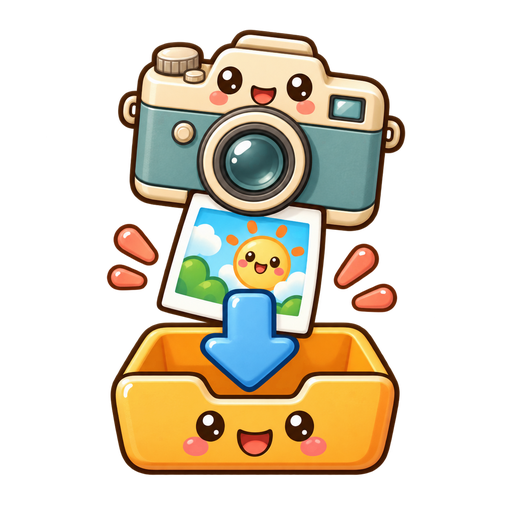
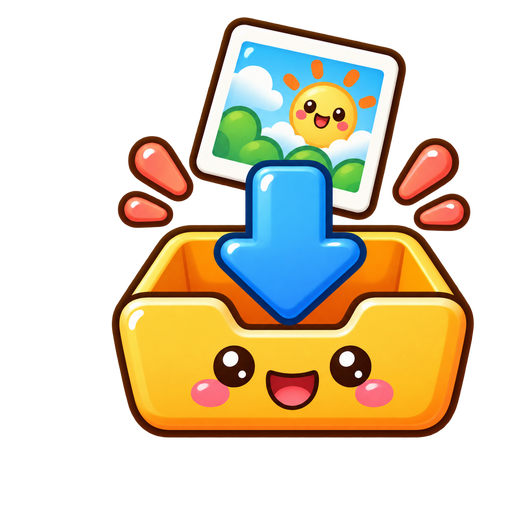
つくる画面を方法と作品別に整理
おえかき・カメラ・とりこみを方法別入口として分離し、キャラクター・背景とクイズを見出しごとに整理する。混在していた取り込みアイコンを写真取り込みとカメラの専用画像へ置き換えた。

diff --git a/create.html b/create.html
@@ -11,6 +11,29 @@
 <meta name="apple-mobile-web-app-capable" content="yes">
 <meta name="apple-mobile-web-app-title" content="ゲームパック">
   <link rel="stylesheet" href="css/style.css?v=64">
+  <style>
+    .create-choice-section { width: min(980px, 100%); margin: 0 auto 24px; }
+    .create-choice-title {
+      margin: 0 0 10px;
+      color: #665744;
+      text-align: center;
+      font-size: 20px;
+    }
+    .create-choice-grid { align-items: stretch; }
+    .create-choice-grid .tile { min-height: 158px; justify-content: center; }
+    .create-method-grid { grid-template-columns: repeat(3, minmax(0, 1fr)); }
+    .create-subject-grid { grid-template-columns: repeat(2, minmax(0, 1fr)); max-width: 650px; }
+    .create-quiz-grid { grid-template-columns: minmax(0, 1fr); max-width: 320px; }
+    @media (max-width: 620px) {
+      .create-choice-section { margin-bottom: 20px; }
+      .create-choice-title { font-size: 18px; }
+      .create-choice-grid .tile { min-height: 142px; }
+      .create-method-grid { grid-template-columns: repeat(2, minmax(0, 1fr)); }
+      .create-method-grid .tile:last-child { grid-column: 1 / -1; width: calc(50% - 8px); justify-self: center; }
+      .create-subject-grid { grid-template-columns: repeat(2, minmax(0, 1fr)); }
+      .create-quiz-grid { width: calc(50% - 8px); }
+    }
+  </style>
 </head>
 <body>
 <a class="hub-back" href="index.html" title="もどる" aria-label="もどる"><svg viewBox="0 0 24 24" fill="none" stroke="currentColor" stroke-width="3.2" stroke-linecap="round" stroke-linejoin="round" aria-hidden="true"><path d="M15 5l-7 7 7 7"/></svg></a>
@@ -28,20 +51,41 @@
     <a class="hub-nav-link play" href="play.html"><img class="hub-nav-icon" src="assets/buttons/menu-play.svg?v=3" alt="">あそぶ</a>
   </nav>
 
-  <div class="tiles four hub-tiles">
-    <a class="tile" href="draw-pick.html?from=create">
-      <img class="icon" src="assets/buttons/draw.png" alt="">おえかき
-    </a>
-    <a class="tile" href="admin.html?from=create&amp;cat=char">
-      <img class="icon" src="assets/buttons/character-intro.png" alt="">キャラクター
-    </a>
-    <a class="tile" href="admin.html?from=create&amp;cat=bg">
-      <img class="icon" src="assets/buttons/museum.png" alt="">はいけい
-    </a>
-    <a class="tile" href="create-quiz.html">
-      <img class="icon" src="assets/buttons/quiz.png" alt="">４たくクイズ
-    </a>
-  </div>
+  <section class="create-choice-section" aria-labelledby="methodTitle">
+    <h2 class="create-choice-title" id="methodTitle">つくりかたから えらぶ</h2>
+    <div class="tiles hub-tiles create-choice-grid create-method-grid">
+      <a class="tile" href="draw-pick.html?from=create">
+        <img class="icon" src="assets/buttons/draw.png" alt="">おえかき
+      </a>
+      <a class="tile" href="admin.html?from=create&amp;mode=camera">
+        <img class="icon" src="assets/buttons/camera.png?v=1" alt="">カメラ
+      </a>
+      <a class="tile" href="admin.html?from=create&amp;mode=import">
+        <img class="icon" src="assets/buttons/import.png?v=2" alt="">とりこみ
+      </a>
+    </div>
+  </section>
+
+  <section class="create-choice-section" aria-labelledby="subjectTitle">
+    <h2 class="create-choice-title" id="subjectTitle">つくるものから えらぶ</h2>
+    <div class="tiles hub-tiles create-choice-grid create-subject-grid">
+      <a class="tile" href="admin.html?from=create&amp;cat=char">
+        <img class="icon" src="assets/buttons/character-intro.png" alt="">キャラクター
+      </a>
+      <a class="tile" href="admin.html?from=create&amp;cat=bg">
+        <img class="icon" src="assets/buttons/museum.png" alt="">はいけい
+      </a>
+    </div>
+  </section>
+
+  <section class="create-choice-section" aria-labelledby="quizTitle">
+    <h2 class="create-choice-title" id="quizTitle">クイズを つくる</h2>
+    <div class="tiles hub-tiles create-choice-grid create-quiz-grid">
+      <a class="tile" href="create-quiz.html">
+        <img class="icon" src="assets/buttons/quiz.png" alt="">４たくクイズ
+      </a>
+    </div>
+  </section>
 
 </main>
 

diff --git a/admin.html b/admin.html
@@ -3,7 +3,7 @@
 <head>
 <meta charset="utf-8">
 <meta name="viewport" content="width=device-width, initial-scale=1">
-<title>取り込み</title>
+<title>とりこみ</title>
 <link rel="icon" href="assets/favicon.png">
 <link rel="apple-touch-icon" sizes="192x192" href="assets/favicon.png">
 <link rel="manifest" href="manifest.webmanifest">
@@ -15,7 +15,7 @@
 <body>
 <header class="bar">
   <a class="back" href="index.html" id="backLink">← もどる</a>
-  <h1><img class="bar-icon" id="pageTitleIcon" src="assets/buttons/import.png" alt=""> <span id="pageTitle">取り込み</span></h1>
+  <h1><img class="bar-icon" id="pageTitleIcon" src="assets/buttons/import.png?v=2" alt=""> <span id="pageTitle">とりこみ</span></h1>
   <div class="spacer"></div>
 </header>
 
@@ -82,13 +82,20 @@ const ENTRY_VIEWS = {
   char: { title: "キャラクター", icon: "assets/buttons/character-intro.png", cats: ["src", "char", "fuku"] },
   bg: { title: "はいけい", icon: "assets/buttons/museum.png", cats: ["src", "bg", "pic"] },
 };
+const ACTION_VIEWS = {
+  import: { title: "とりこみ", icon: "assets/buttons/import.png?v=2" },
+  camera: { title: "カメラ", icon: "assets/buttons/camera.png?v=1" },
+};
 const ENTRY_VIEW_KEY = QUERY.get("cat");
 const ENTRY_VIEW = ENTRY_VIEWS[ENTRY_VIEW_KEY] || null;
-if (ENTRY_VIEW) {
+const ACTION_VIEW_KEY = QUERY.get("mode");
+const ACTION_VIEW = ACTION_VIEWS[ACTION_VIEW_KEY] || null;
+const PAGE_VIEW = ENTRY_VIEW || ACTION_VIEW;
+if (PAGE_VIEW) {
   document.body.classList.add("create-import-view");
-  $("pageTitle").textContent = ENTRY_VIEW.title;
-  $("pageTitleIcon").src = ENTRY_VIEW.icon;
-  document.title = ENTRY_VIEW.title;
+  $("pageTitle").textContent = PAGE_VIEW.title;
+  $("pageTitleIcon").src = PAGE_VIEW.icon;
+  document.title = PAGE_VIEW.title;
 }
 
 /* 「つくる」から来たときは「つくる」へ戻る(トップの歯車から来たときはトップへ) */
@@ -101,6 +108,7 @@ const START_CAT = QUERY.get("cat");
 const SELF_QUERY = new URLSearchParams();
 if (FROM_CREATE) SELF_QUERY.set("from", "create");
 if (START_CAT) SELF_QUERY.set("cat", START_CAT);
+if (ACTION_VIEW) SELF_QUERY.set("mode", ACTION_VIEW_KEY);
 const SELF_QUERY_STRING = SELF_QUERY.toString();
 const IMPORT_SELF = `admin.html${SELF_QUERY_STRING ? `?${SELF_QUERY_STRING}` : ""}`;
 
@@ -306,6 +314,9 @@ $("catSwipe").addEventListener("pointerup", (e) => {
   if (CAT_KEYS[next] !== activeCat) { Sound.tap(); setActiveCat(CAT_KEYS[next]); }
 });
 setActiveCat(activeCat);
+
+if (ACTION_VIEW_KEY === "import") $("cameraBtn").classList.add("hidden");
+if (ACTION_VIEW_KEY === "camera") $("pickBtn").classList.add("hidden");
 
 $("pickBtn").onclick = () => Editors.chooseFiles(activeCat);
 $("cameraBtn").onclick = () => Editors.chooseCamera(activeCat);

diff --git a/notes/HANDOVER.md b/notes/HANDOVER.md
@@ -8,6 +8,12 @@
 
 ## 1. いまの状態
 
+### つくる画面の入口を方法・完成物で分類(2026-09-03、未公開)
+
+- 「つくりかたから えらぶ」に、おえかき／カメラ／とりこみを配置した。カメラは撮影だけ、とりこみは既存ファイル選択だけを表示する専用入口
+- 「つくるものから えらぶ」にキャラクター／はいけい、「クイズを つくる」に4たくクイズを分け、「その他」は使わない
+- 従来のカメラ＋写真＋矢印＋トレーが一体化した取り込みアイコンを、写真＋矢印＋トレーだけの `assets/buttons/import.png` へ差し替えた。カメラ単体の `assets/buttons/camera.png` も新規追加した
+
 ### 長い作品名のマーキー動作変更(2026-09-03、未公開)
 
 - キャラしょうかい・びじゅつかんの長い作品名は、4秒停止→全文が左へ消えるまで一定速度で移動→瞬時に先頭へ戻る動作を繰り返す
